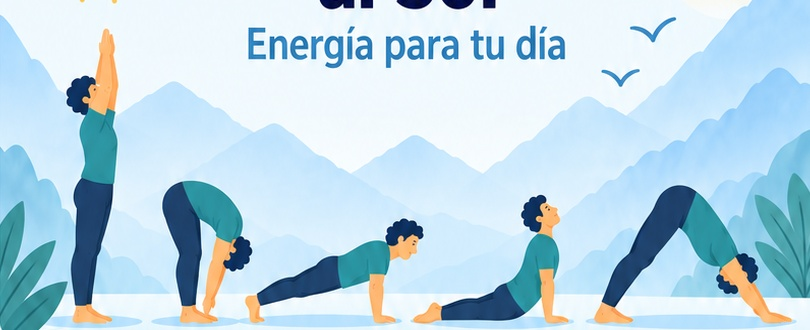
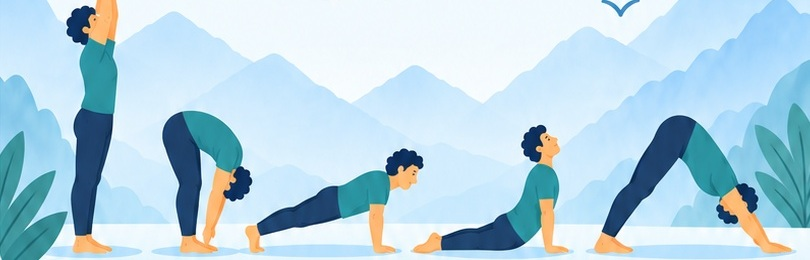
Add files via upload

diff --git a/styles.css b/styles.css
@@ -132,3 +132,105 @@ button{color:inherit}
 .hero[data-practice="agni"] .hero-art img{transform:scale(1.12);transform-origin:center center}
 .hero[data-practice="saludos"] .hero-art img,
 .hero[data-practice="khechari"] .hero-art img{transform:none}
+
+
+/* V3: héroes sin superposición ni recorte. Las ilustraciones son secundarias y siempre caben completas. */
+.hero{
+  grid-template-columns:minmax(0,48%) minmax(0,52%);
+  column-gap:0;
+}
+.hero-copy{
+  padding:12px 12px 12px 16px;
+  overflow:hidden;
+  background:#edf9ff;
+}
+.hero-copy strong{
+  font-size:clamp(23px,6.2vw,34px);
+  line-height:1.02;
+  overflow-wrap:normal;
+  word-break:normal;
+  hyphens:none;
+  max-width:100%;
+}
+.hero-copy span{
+  font-size:clamp(15px,3.8vw,20px);
+  line-height:1.08;
+  max-width:100%;
+  overflow-wrap:normal;
+  word-break:normal;
+}
+.hero-art{
+  overflow:hidden;
+  display:flex;
+  align-items:center;
+  justify-content:center;
+  padding:7px;
+}
+.hero-art:before{display:none}
+.hero-art img,
+.hero.object-contain .hero-art img,
+.hero[data-practice] .hero-art img{
+  width:100%;
+  height:100%;
+  object-fit:contain;
+  object-position:center;
+  transform:none !important;
+  padding:0;
+}
+.hero[data-practice="saludos"]{grid-template-columns:minmax(0,42%) minmax(0,58%)}
+.hero[data-practice="bhramari"]{grid-template-columns:minmax(0,50%) minmax(0,50%)}
+.hero[data-practice="khechari"]{grid-template-columns:minmax(0,44%) minmax(0,56%)}
+
+/* V3: cronómetro con zona útil protegida dentro del anillo. */
+.timer-face{
+  width:min(136px,34vw);
+  height:min(136px,34vw);
+  padding:20px 16px 16px;
+  overflow:visible;
+}
+.timer-face:before{inset:9px}
+.timer-value{
+  font-size:clamp(34px,9.2vw,42px);
+  line-height:1;
+  letter-spacing:-.035em;
+}
+.timer-label{
+  font-size:clamp(9px,2.35vw,11px);
+  line-height:1;
+  margin-top:5px;
+  padding:0 5px;
+}
+.timer-btn{font-size:clamp(17px,4.4vw,21px)}
+
+/* Evita que textos largos ocupen la columna de la ilustración. */
+.hero-copy, .hero-copy strong, .hero-copy span{min-width:0}
+
+@media(max-height:730px){
+  .hero{grid-template-columns:minmax(0,48%) minmax(0,52%)}
+  .hero[data-practice="saludos"]{grid-template-columns:minmax(0,42%) minmax(0,58%)}
+  .hero[data-practice="bhramari"]{grid-template-columns:minmax(0,50%) minmax(0,50%)}
+  .hero[data-practice="khechari"]{grid-template-columns:minmax(0,44%) minmax(0,56%)}
+  .hero-copy{padding:7px 8px 7px 11px}
+  .hero-copy strong{font-size:22px;line-height:1}
+  .hero-copy span{font-size:13.5px;line-height:1.03;margin-top:4px}
+  .hero-art{padding:5px}
+  .timer-face{width:112px;height:112px;padding:17px 13px 13px}
+  .timer-face:before{inset:8px}
+  .timer-value{font-size:33px;line-height:1}
+  .timer-label{font-size:8.5px;margin-top:3px}
+  .timer-btn{font-size:16px}
+}
+
+@media(max-width:380px){
+  .hero{grid-template-columns:minmax(0,49%) minmax(0,51%)}
+  .hero[data-practice="saludos"]{grid-template-columns:minmax(0,43%) minmax(0,57%)}
+  .hero[data-practice="bhramari"]{grid-template-columns:minmax(0,51%) minmax(0,49%)}
+  .hero[data-practice="khechari"]{grid-template-columns:minmax(0,45%) minmax(0,55%)}
+  .hero-copy{padding-left:10px;padding-right:8px}
+  .hero-copy strong{font-size:22px}
+  .hero-copy span{font-size:13.5px}
+  .timer-card{grid-template-columns:120px 1fr;padding:7px 8px;gap:7px}
+  .timer-face{width:112px;height:112px}
+  .timer-value{font-size:33px}
+  .timer-btn{font-size:16px;padding:0 5px}
+}

diff --git a/sw.js b/sw.js
@@ -1,4 +1,4 @@
-const CACHE='practica-consciente-v2-layout';
+const CACHE='practica-consciente-v3-hero-clean';
 const CORE=['./','./index.html','./styles.css','./app.js','./manifest.webmanifest','./assets/icons/icon-192.png','./assets/icons/icon-512.png',
 './assets/practices/om.png','./assets/practices/saludos.jpg','./assets/practices/bhramari.png','./assets/practices/kapalabhati.jpg','./assets/practices/solar.jpg','./assets/practices/moola.jpg','./assets/practices/vajroli.jpg','./assets/practices/ashwini.jpg','./assets/practices/agni.jpg','./assets/practices/khechari.png'];
 self.addEventListener('install',e=>{e.waitUntil(caches.open(CACHE).then(c=>c.addAll(CORE)).then(()=>self.skipWaiting()));});

diff --git a/README.md b/README.md
@@ -17,3 +17,10 @@ PWA personal para Android/Chromium. No requiere servidor ni cuenta: el estado di
 2. Hacer commit/push a `main`.
 3. Si GitHub Pages ya estaba activo, no hace falta reconfigurarlo.
 4. En Android, cerrar y volver a abrir la PWA. Si tarda en actualizar, abrir una vez la URL de GitHub Pages en Chrome y luego volver a abrir la aplicación instalada.
+
+
+## V3
+- Ilustraciones superiores recortadas para eliminar texto incrustado.
+- `object-fit: contain` en todas las tarjetas superiores: ninguna figura debe recortarse.
+- Columnas de texto e ilustración separadas sin gradientes superpuestos.
+- Cronómetros reajustados para proteger números y etiqueta dentro del anillo.
